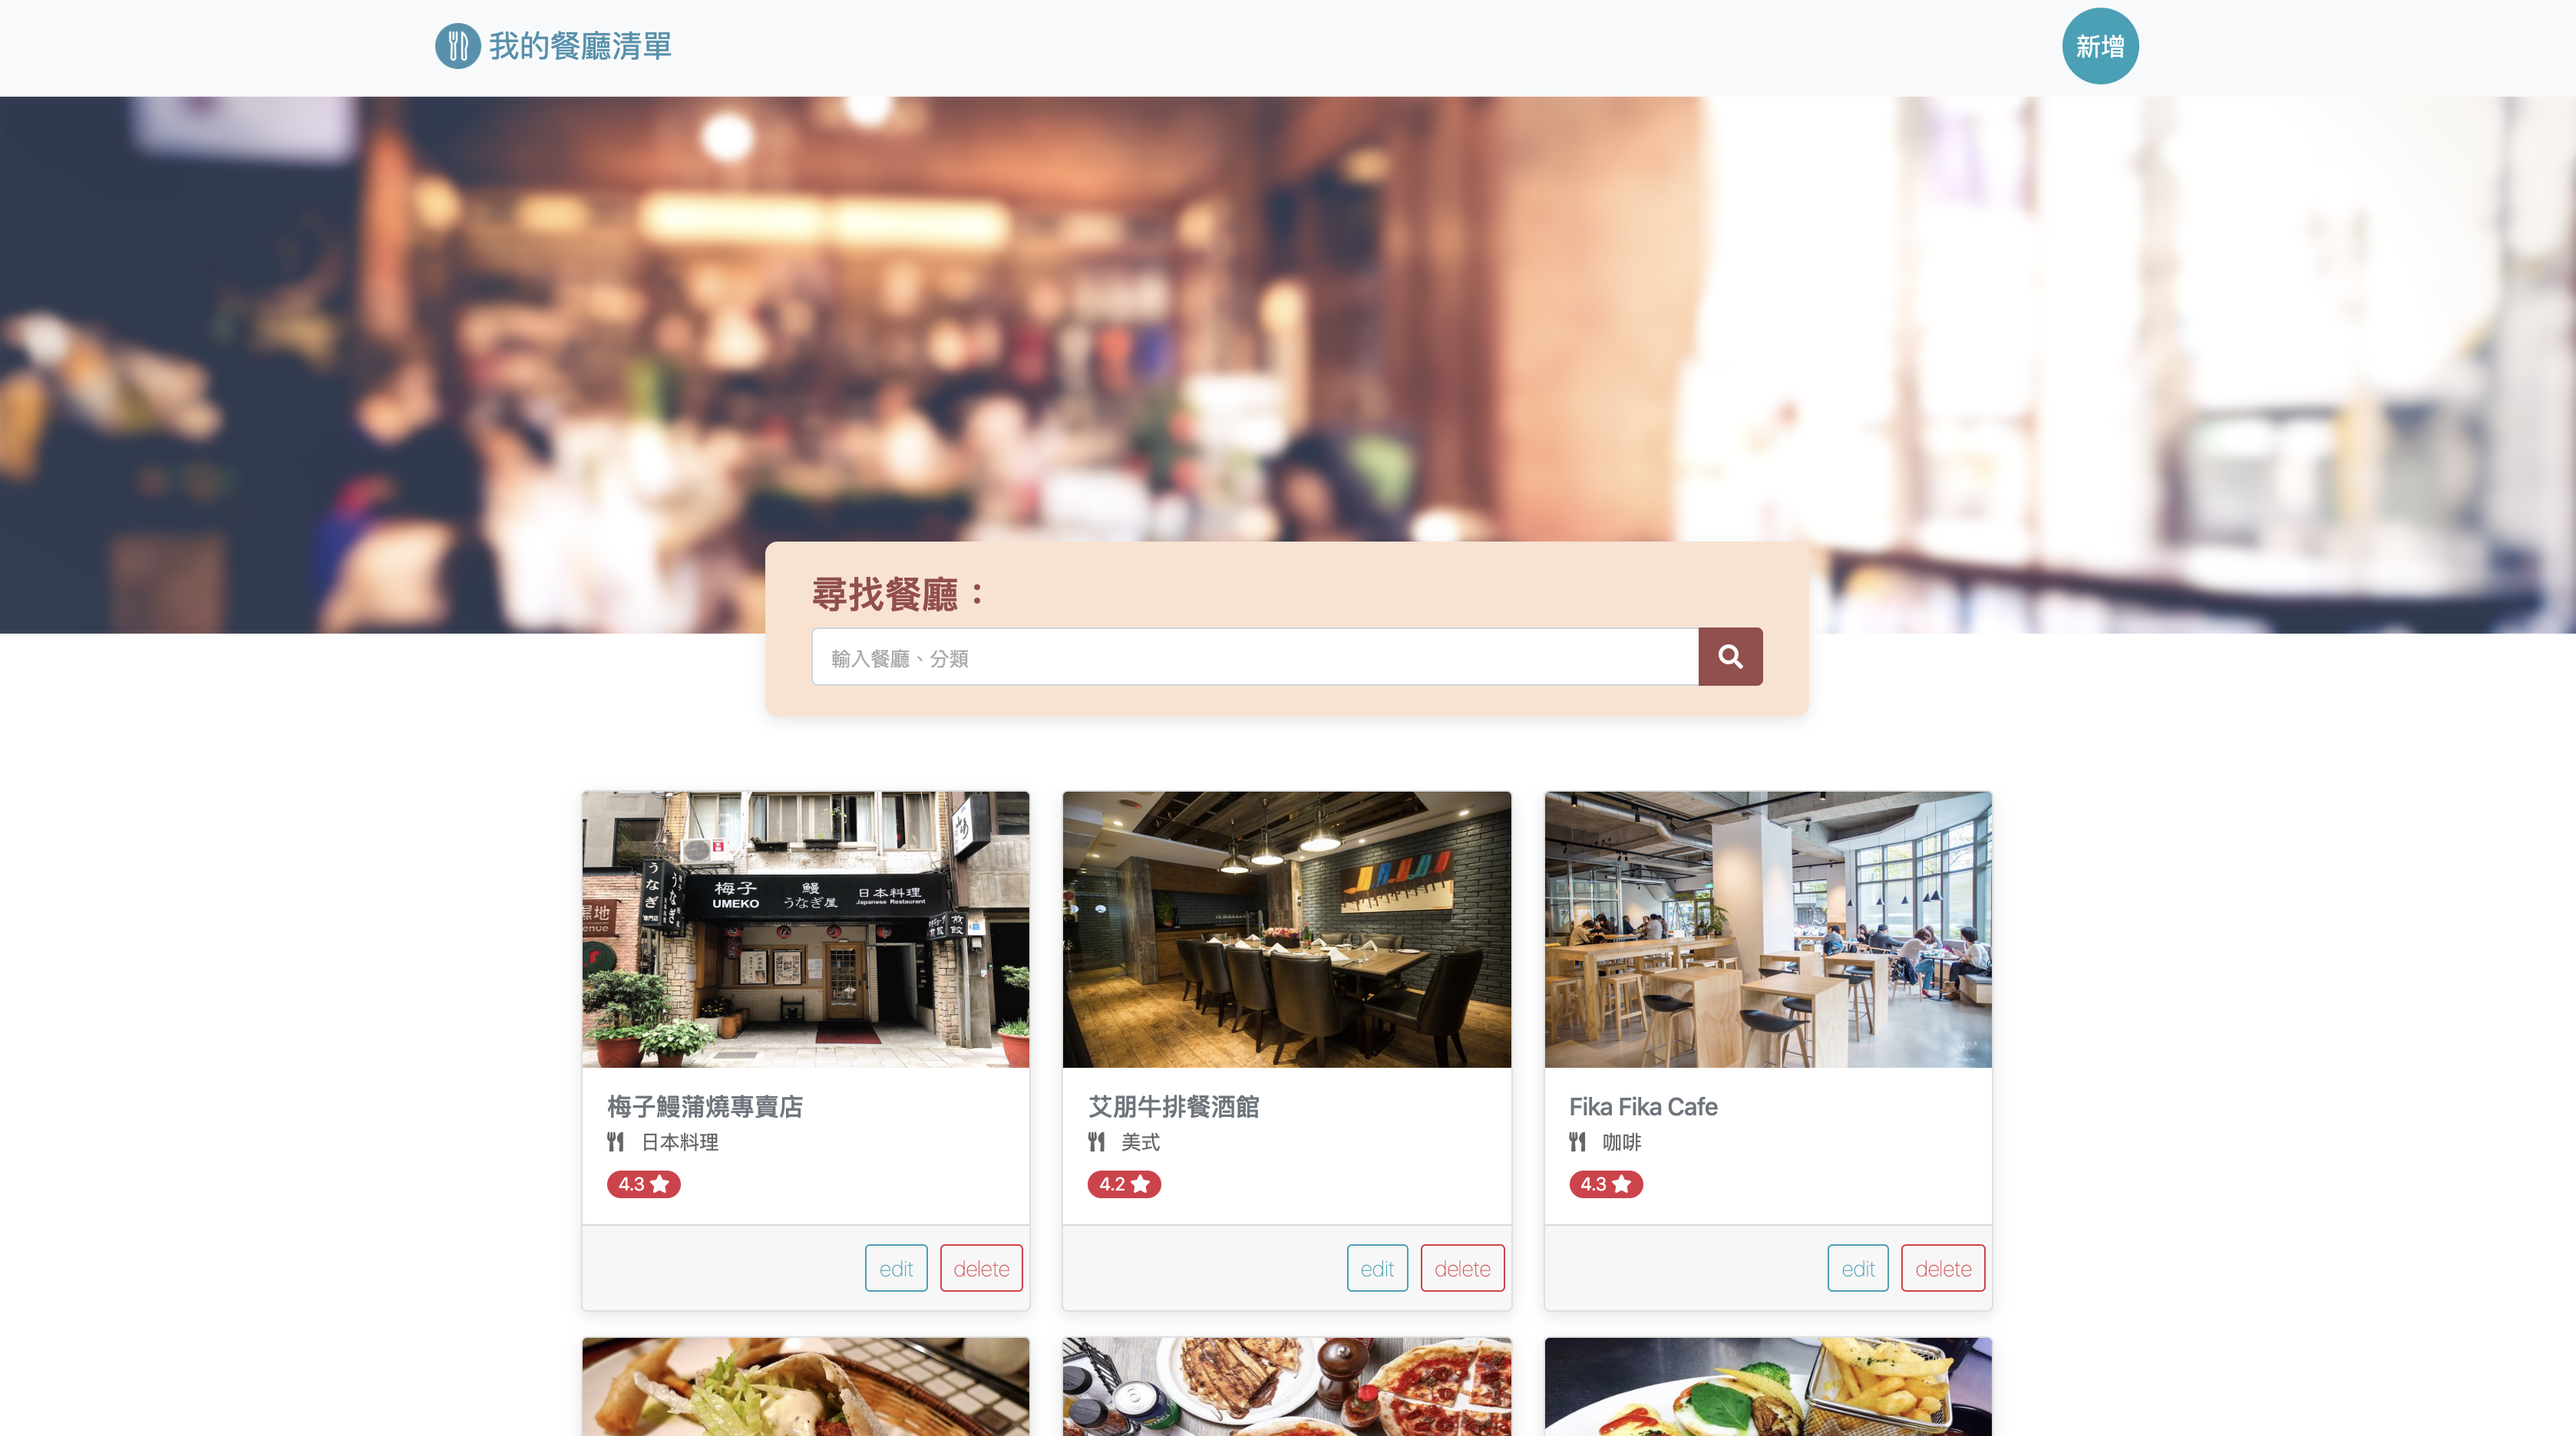
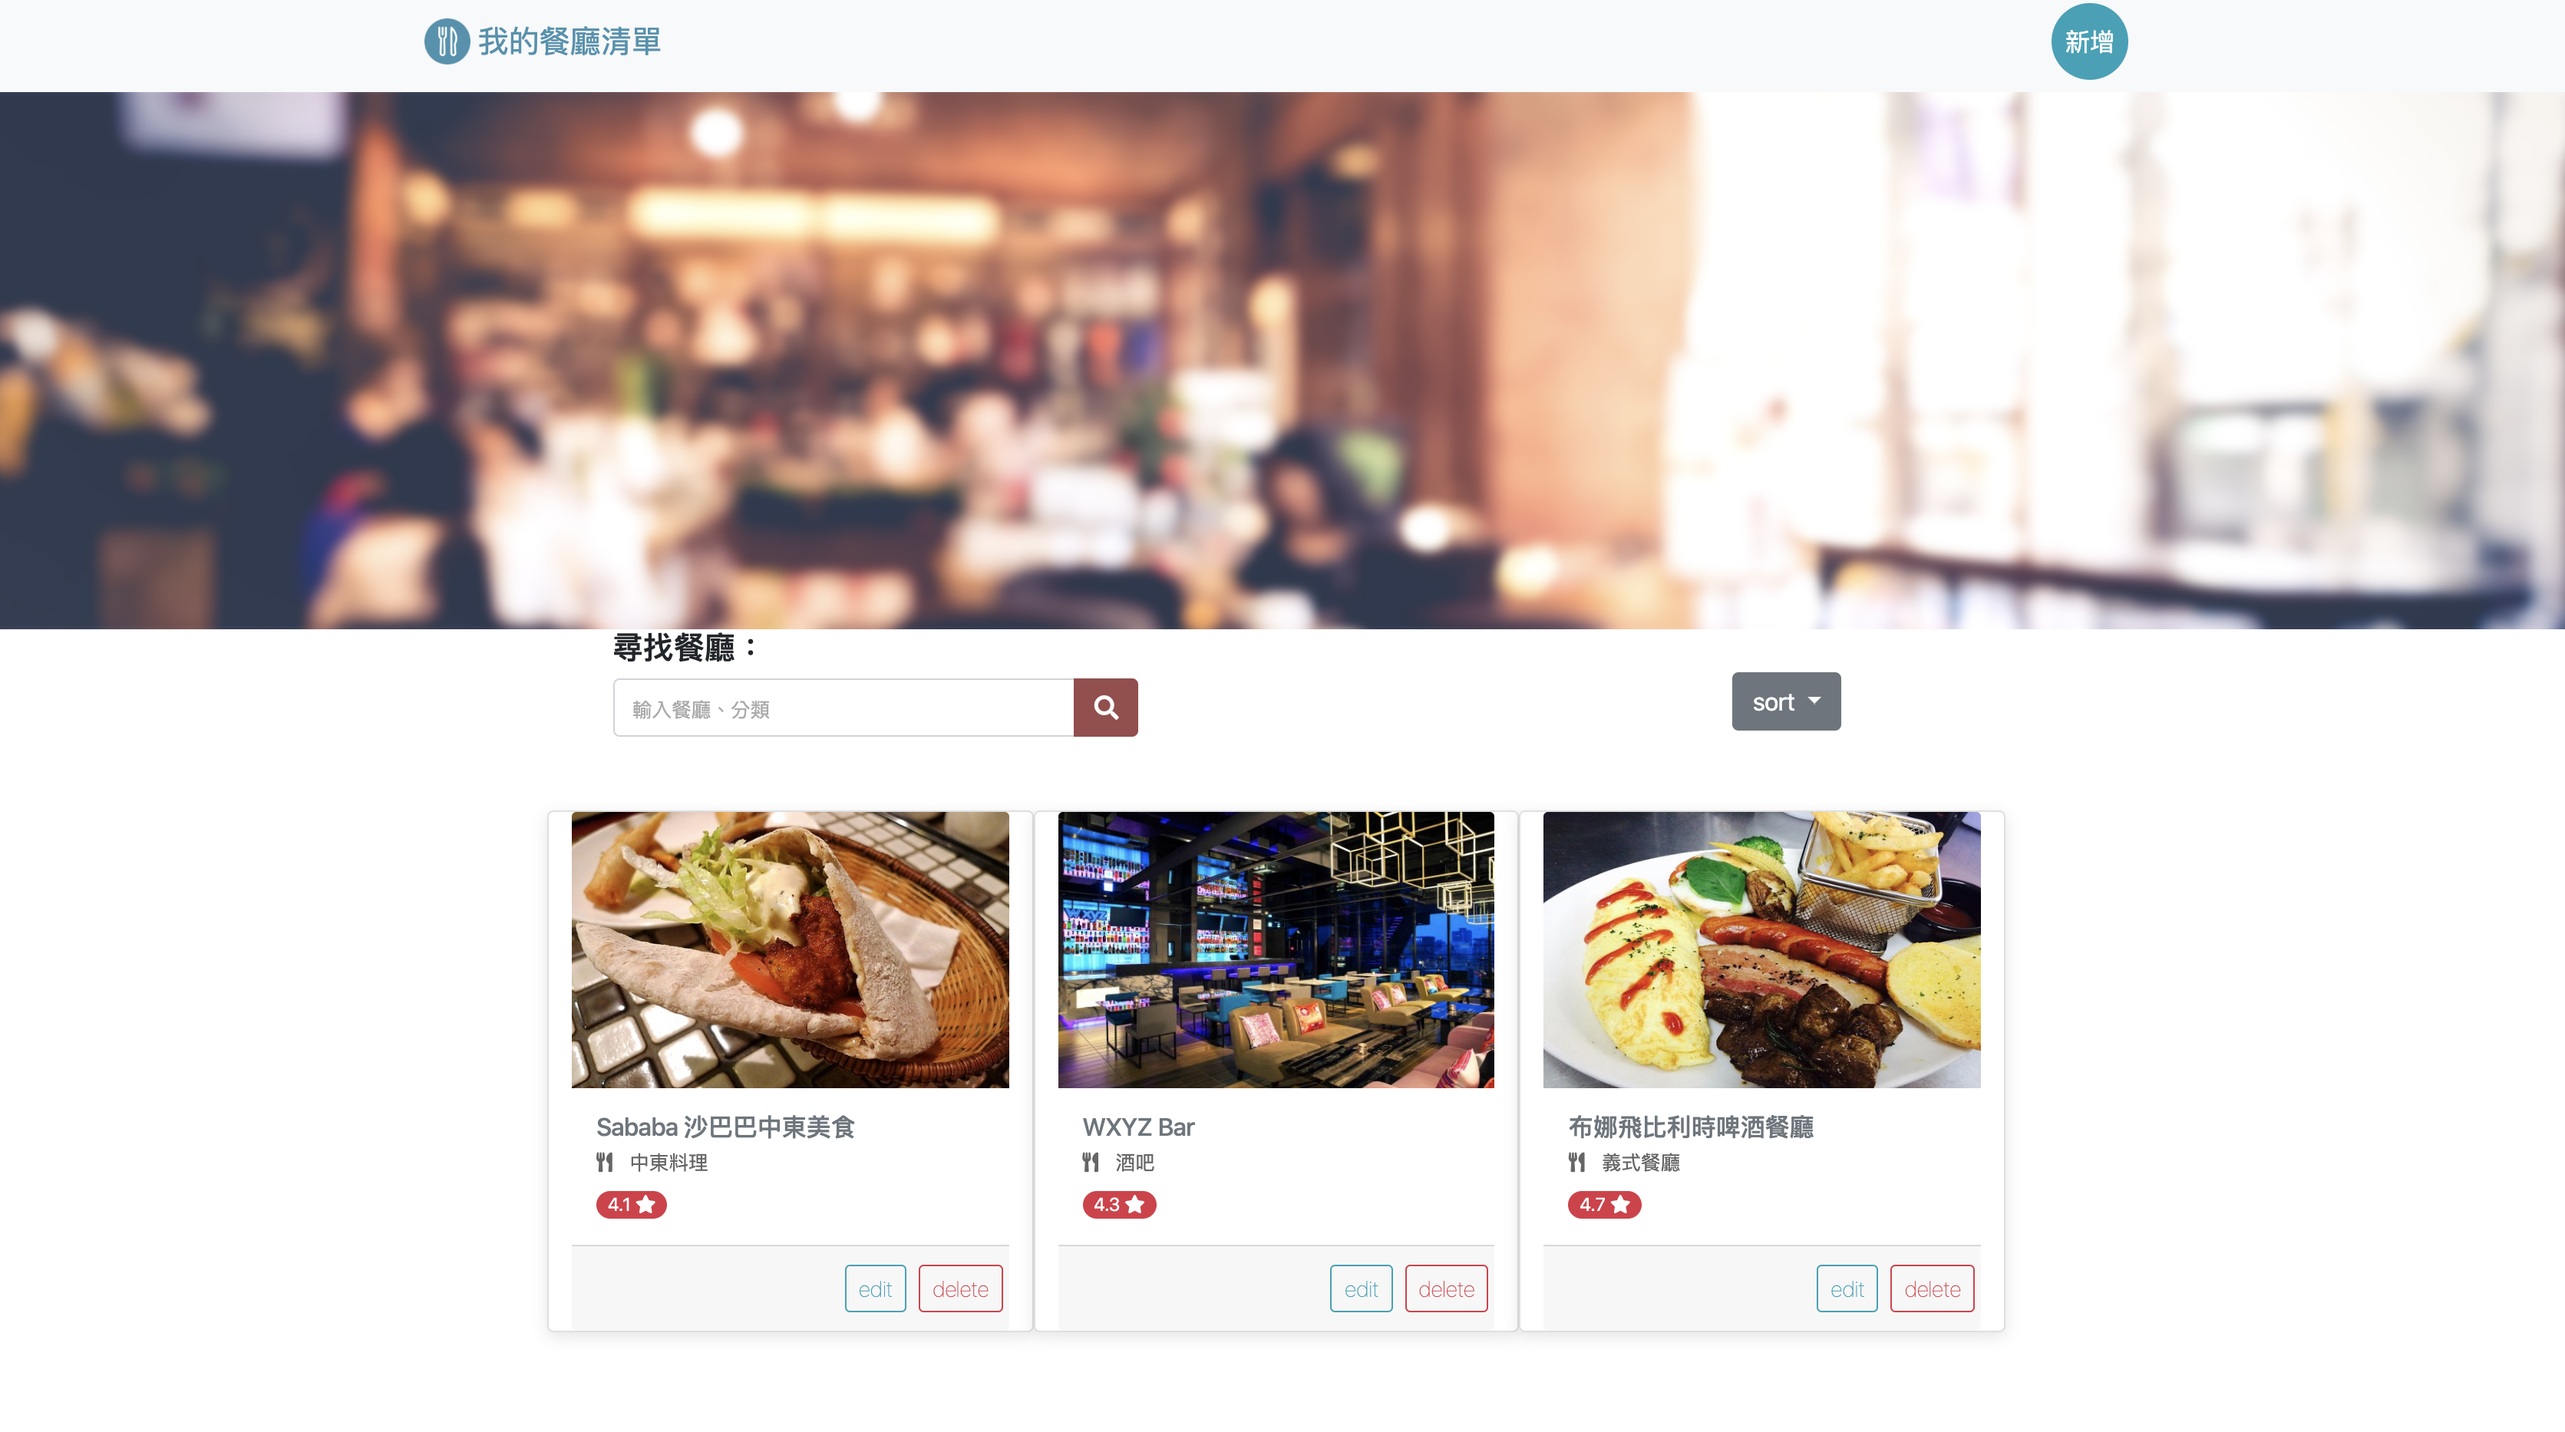
revise README.md

diff --git a/README.md b/README.md
@@ -3,9 +3,9 @@
 美食餐廳網，在這裡可以找到想要的餐廳、瀏覽詳細資訊與新增編輯刪除資料。
 ## Installing：
 1. 打開你的 terminal，Clone 此專案至本機電腦
-> git clone https://github.com/good800322/restaurant-list-CRUD
+> git clone https://github.com/good800322/restaurant-list-CRUD2
 2. 開啟終端機(Terminal)，進入存放此專案的資料夾
-> cd restaurant-list-CRUD
+> cd restaurant-list-CRUD2
 3. 安裝 npm 套件
 > 在 Terminal 輸入 npm install 指令
 4. 啟動伺服器，執行 app.js 檔案
@@ -17,3 +17,4 @@
 4. 使用者可以新增一筆餐廳資料。
 5. 使用者可以編輯現有之餐廳資料。
 6. 使用者可以刪除已存在之餐廳資料。
+7. 使用者可以根據名稱,種類,評分之排序來瀏覽資料。
